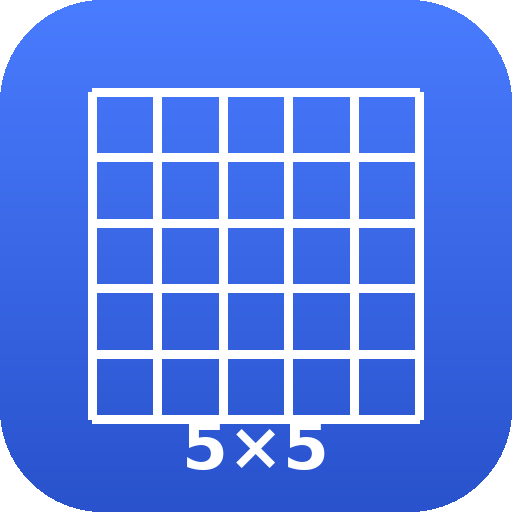
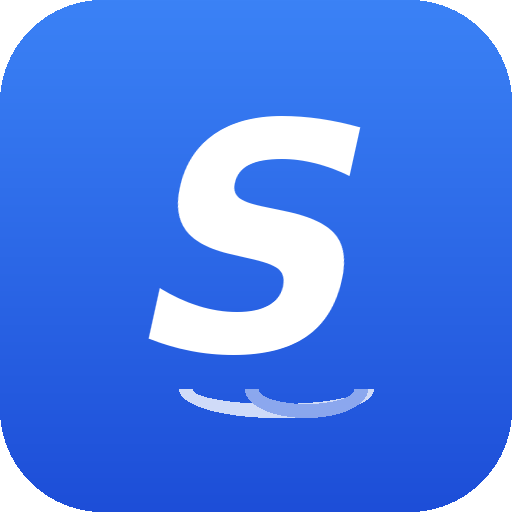
fix: 重绘图标为简洁斜体 S + 速度弧线

Changed region(s): [[0.1562, 0.1562, 0.8438, 0.9375]]

diff --git a/gen_icons.py b/gen_icons.py
@@ -1,0 +1,73 @@
+from PIL import Image, ImageDraw, ImageFont
+import os
+
+def make_icon(size):
+    img = Image.new("RGBA", (size, size), (0, 0, 0, 0))
+    draw = ImageDraw.Draw(img)
+
+    # Blue gradient background
+    r1, g1, b1 = 0x3B, 0x82, 0xF6
+    r2, g2, b2 = 0x1D, 0x4E, 0xD8
+    for y in range(size):
+        t = y / size
+        r = int(r1 + (r2 - r1) * t)
+        g = int(g1 + (g2 - g1) * t)
+        b = int(b1 + (b2 - b1) * t)
+        draw.line([(0, y), (size, y)], fill=(r, g, b, 255))
+
+    # Rounded corners
+    radius = size // 5
+    mask = Image.new("L", (size, size), 0)
+    ImageDraw.Draw(mask).rounded_rectangle([0, 0, size - 1, size - 1], radius=radius, fill=255)
+    img.putalpha(mask)
+
+    # Draw "S" on separate layer then shear for motion feel
+    s_layer = Image.new("RGBA", (size, size), (0, 0, 0, 0))
+    s_draw = ImageDraw.Draw(s_layer)
+
+    font_size = int(size * 0.62)
+    try:
+        font = ImageFont.truetype("/usr/share/fonts/truetype/dejavu/DejaVuSans-Bold.ttf", font_size)
+    except:
+        font = ImageFont.load_default()
+
+    bbox = s_draw.textbbox((0, 0), "S", font=font)
+    tw, th = bbox[2] - bbox[0], bbox[3] - bbox[1]
+    tx = (size - tw) / 2 - bbox[0]
+    ty = (size - th) / 2 - bbox[1] - size * 0.04
+    s_draw.text((tx, ty), "S", fill=(255, 255, 255, 255), font=font)
+
+    # Shear right for italic/speed feel
+    shear = 0.22
+    s_layer = s_layer.transform(
+        (size, size), Image.AFFINE,
+        (1, shear, -shear * size * 0.5, 0, 1, 0),
+        Image.BICUBIC
+    )
+
+    # Speed swoosh: two short arcs below-right of S
+    sd = ImageDraw.Draw(s_layer)
+    lw = max(2, int(size * 0.028))
+    cx = int(size * 0.54)
+    cy = int(size * 0.76)
+    for i, (w, alpha) in enumerate([(0.38, 200), (0.24, 120)]):
+        sw = int(size * w)
+        sx = cx - sw // 2 + i * int(size * 0.06)
+        sd.arc([sx, cy - lw * 2, sx + sw, cy + lw * 2],
+               start=0, end=180,
+               fill=(255, 255, 255, alpha), width=lw)
+
+    img = Image.alpha_composite(img, s_layer)
+    return img
+
+os.makedirs("icons", exist_ok=True)
+for sz in [512, 192, 180, 152, 120]:
+    icon = make_icon(sz)
+    if sz in [180, 152, 120]:
+        bg = Image.new("RGB", (sz, sz), (0x3B, 0x82, 0xF6))
+        bg.paste(icon, mask=icon.split()[3])
+        bg.save(f"icons/icon-{sz}.png")
+    else:
+        icon.save(f"icons/icon-{sz}.png")
+
+print("Done")
